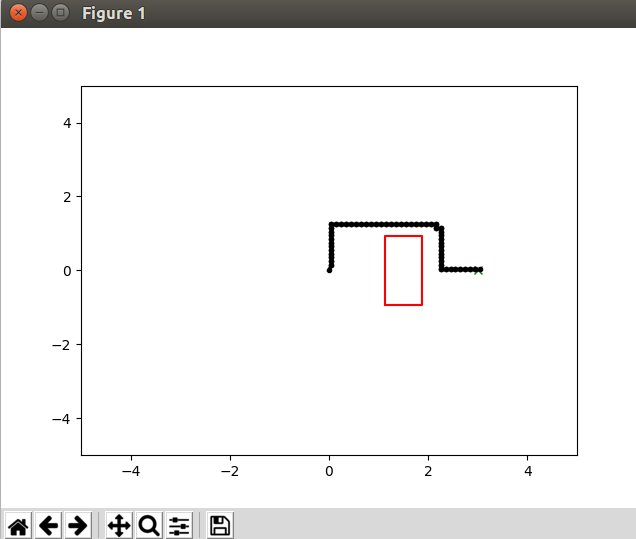
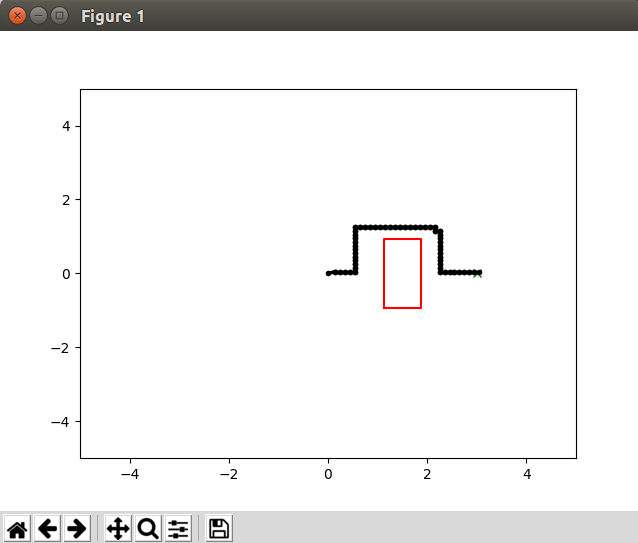
A* correction

diff --git a/hw3/code/AStarPlanner.py b/hw3/code/AStarPlanner.py
@@ -35,7 +35,6 @@ class AStarPlanner(object):
                 print("No Path Found")
                 break
             curr = heappop(tovisit)[1]
-            #print("Visiting Node: ",curr)
             if curr == goal_id:
                 found=True
                 print("Path Found")
@@ -43,25 +42,25 @@ class AStarPlanner(object):
             visited.append(curr)
             succ = self.planning_env.GetSuccessors(curr)
             for s in succ:
-                if s not in visited: # resolve both cases now
-                    #tovisit.append(s)
-                    parent[s] = curr
+                if s not in visited:
                     c2c_tentative = c2c[curr] + self.planning_env.ComputeDistance(s,curr)
                     l = [h[1] for h in tovisit]
-                    if s in l:
+                    if s in l: # already exists in tovisit, but new path might be better
                         idx = l.index(s)
                         if c2c[s] > c2c_tentative: # new path is better
+                            parent[s] = curr
                             c2c[s] = c2c_tentative
                             tovisit[idx] = (c2c[s]+self.planning_env.ComputeHeuristicCost(s,goal_id),s)
                             heapify(tovisit)
                     else:
+                        parent[s] = curr
                         c2c[s] = c2c_tentative
                         heappush(tovisit,(c2c[s]+self.planning_env.ComputeHeuristicCost(s,goal_id),s))
 
                     if plot:
                         c1 = self.planning_env.discrete_env.NodeIdToConfiguration(curr)
                         c2 = self.planning_env.discrete_env.NodeIdToConfiguration(s)
-                        self.planning_env.PlotEdge(c1,c2)
+                        #self.planning_env.PlotEdge(c1,c2)
 
         if found:
             n = goal_id

diff --git a/hw3/code/SimpleEnvironment.py b/hw3/code/SimpleEnvironment.py
@@ -155,4 +155,4 @@ class SimpleEnvironment(object):
                 [sconfig[1], econfig[1]],
                 'k.-', linewidth=2.5)
         pl.draw()
-        pl.pause(0.01)
+        #pl.pause(0.01)
